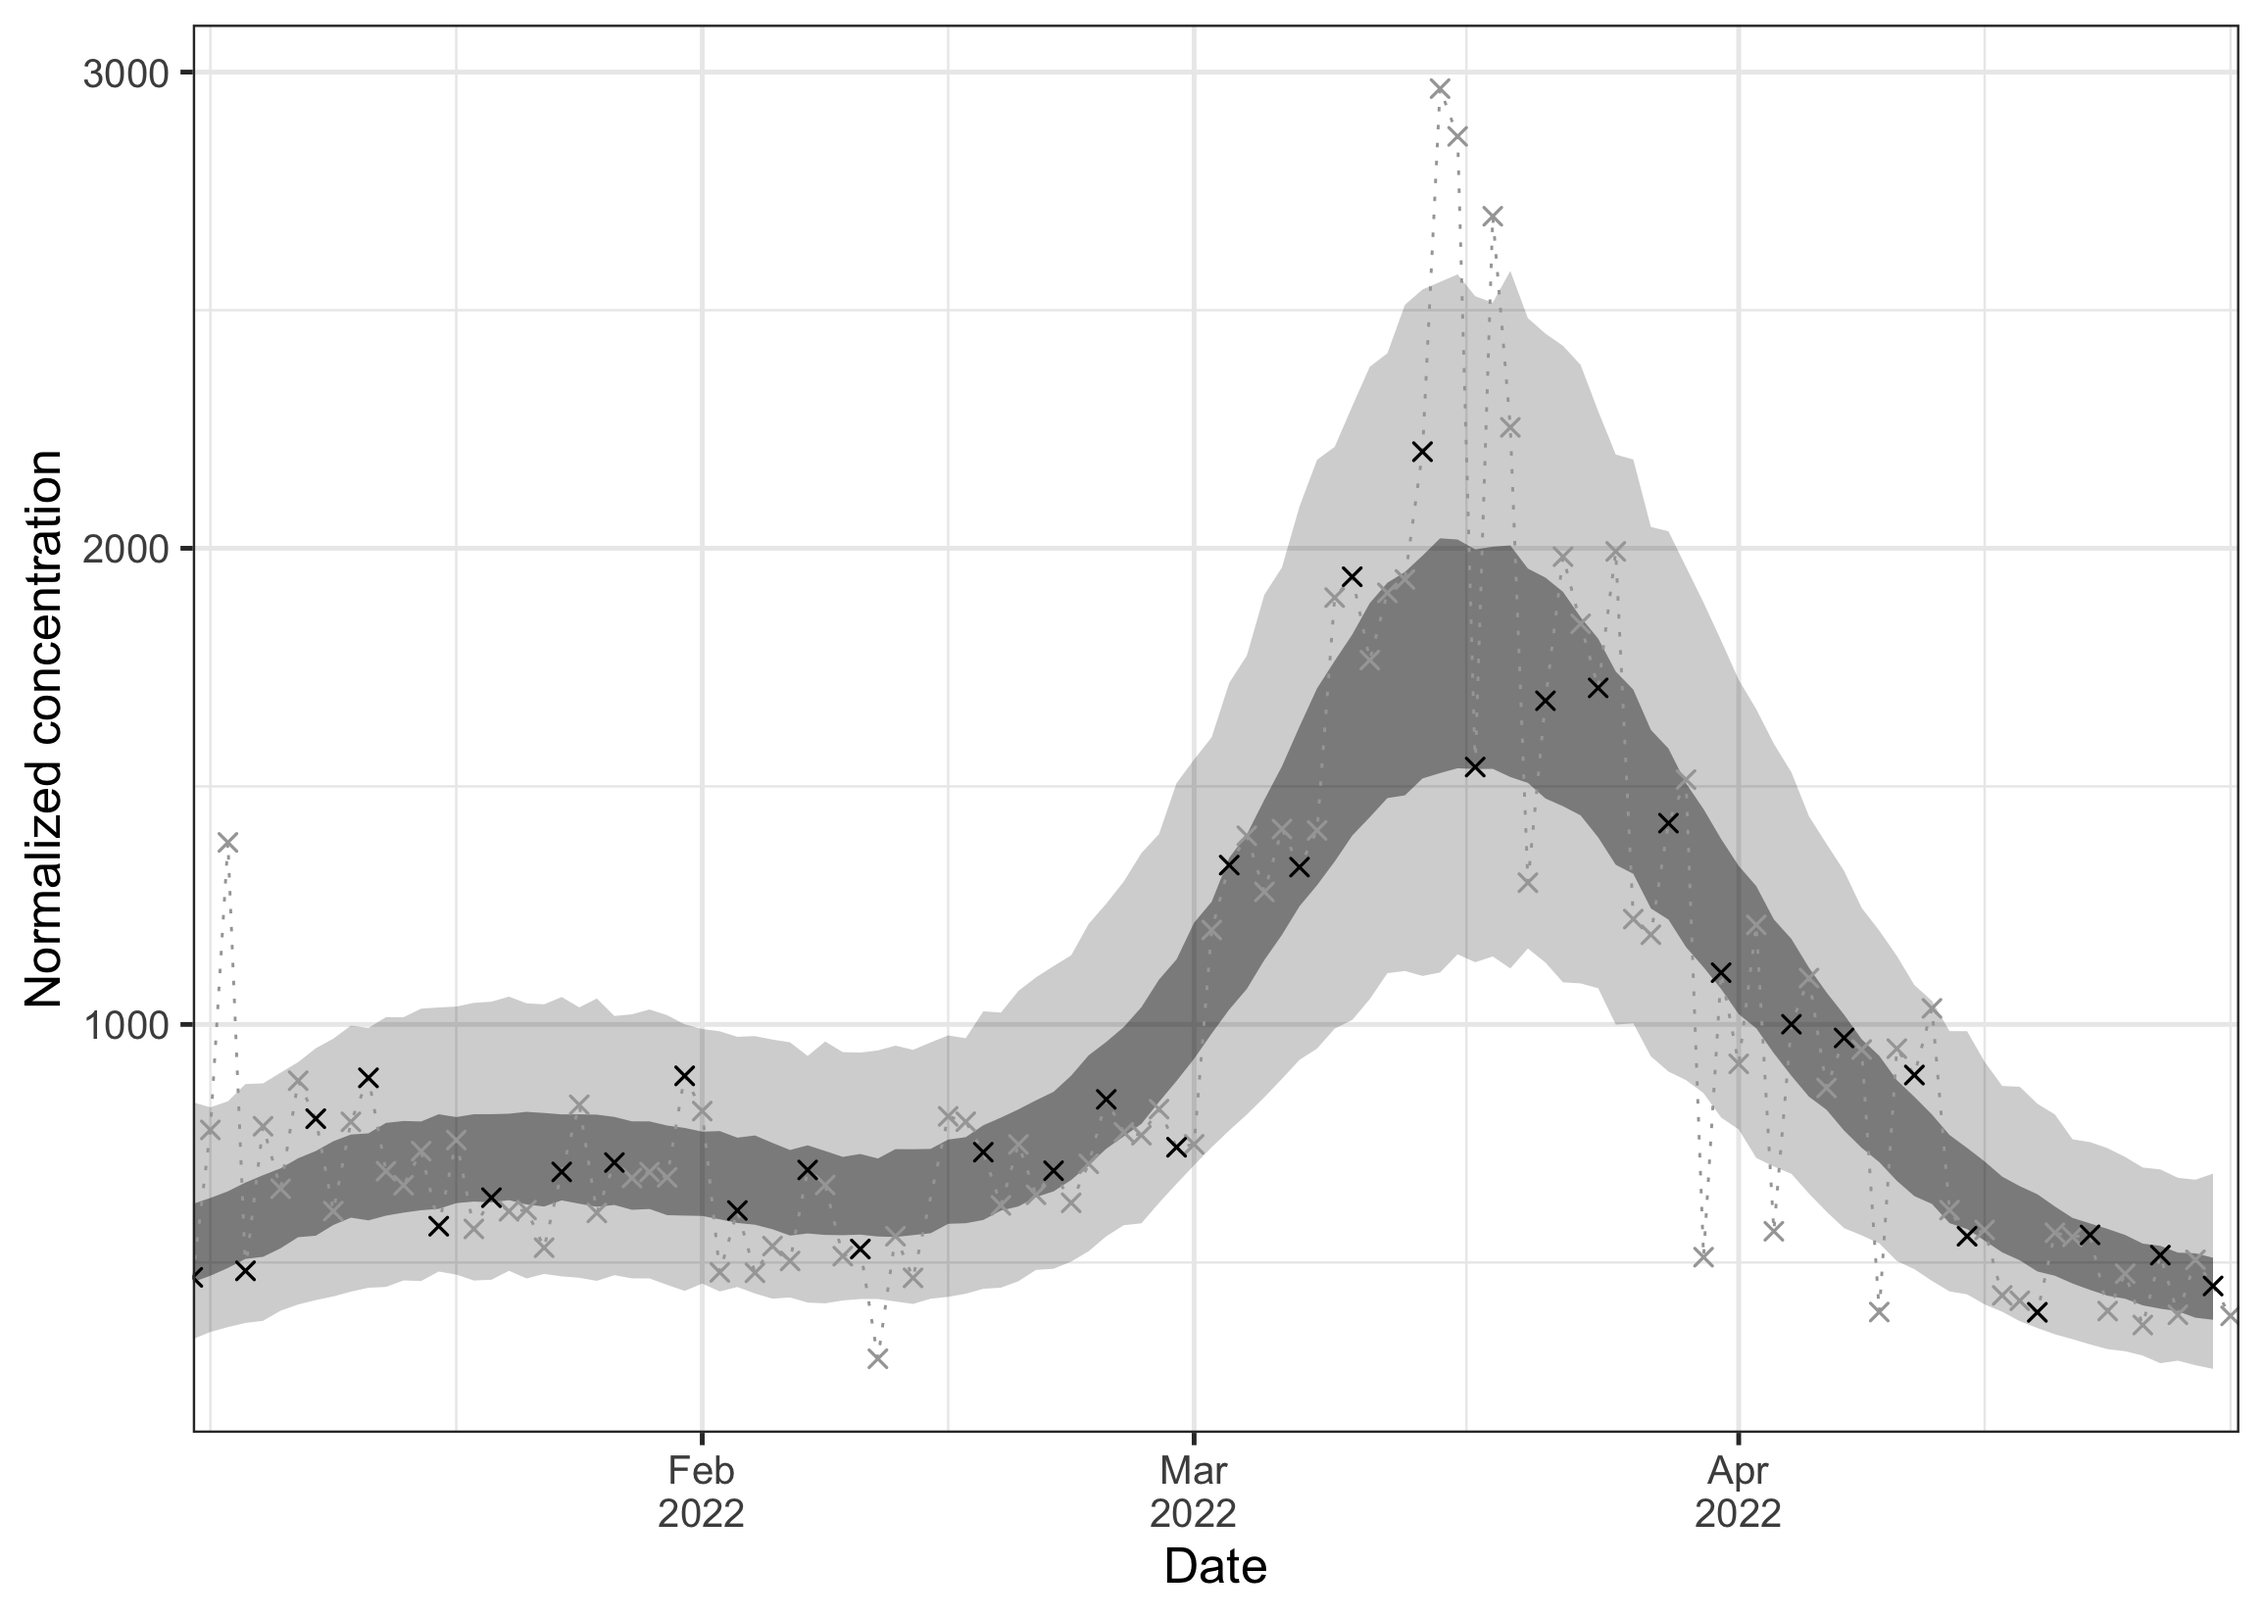
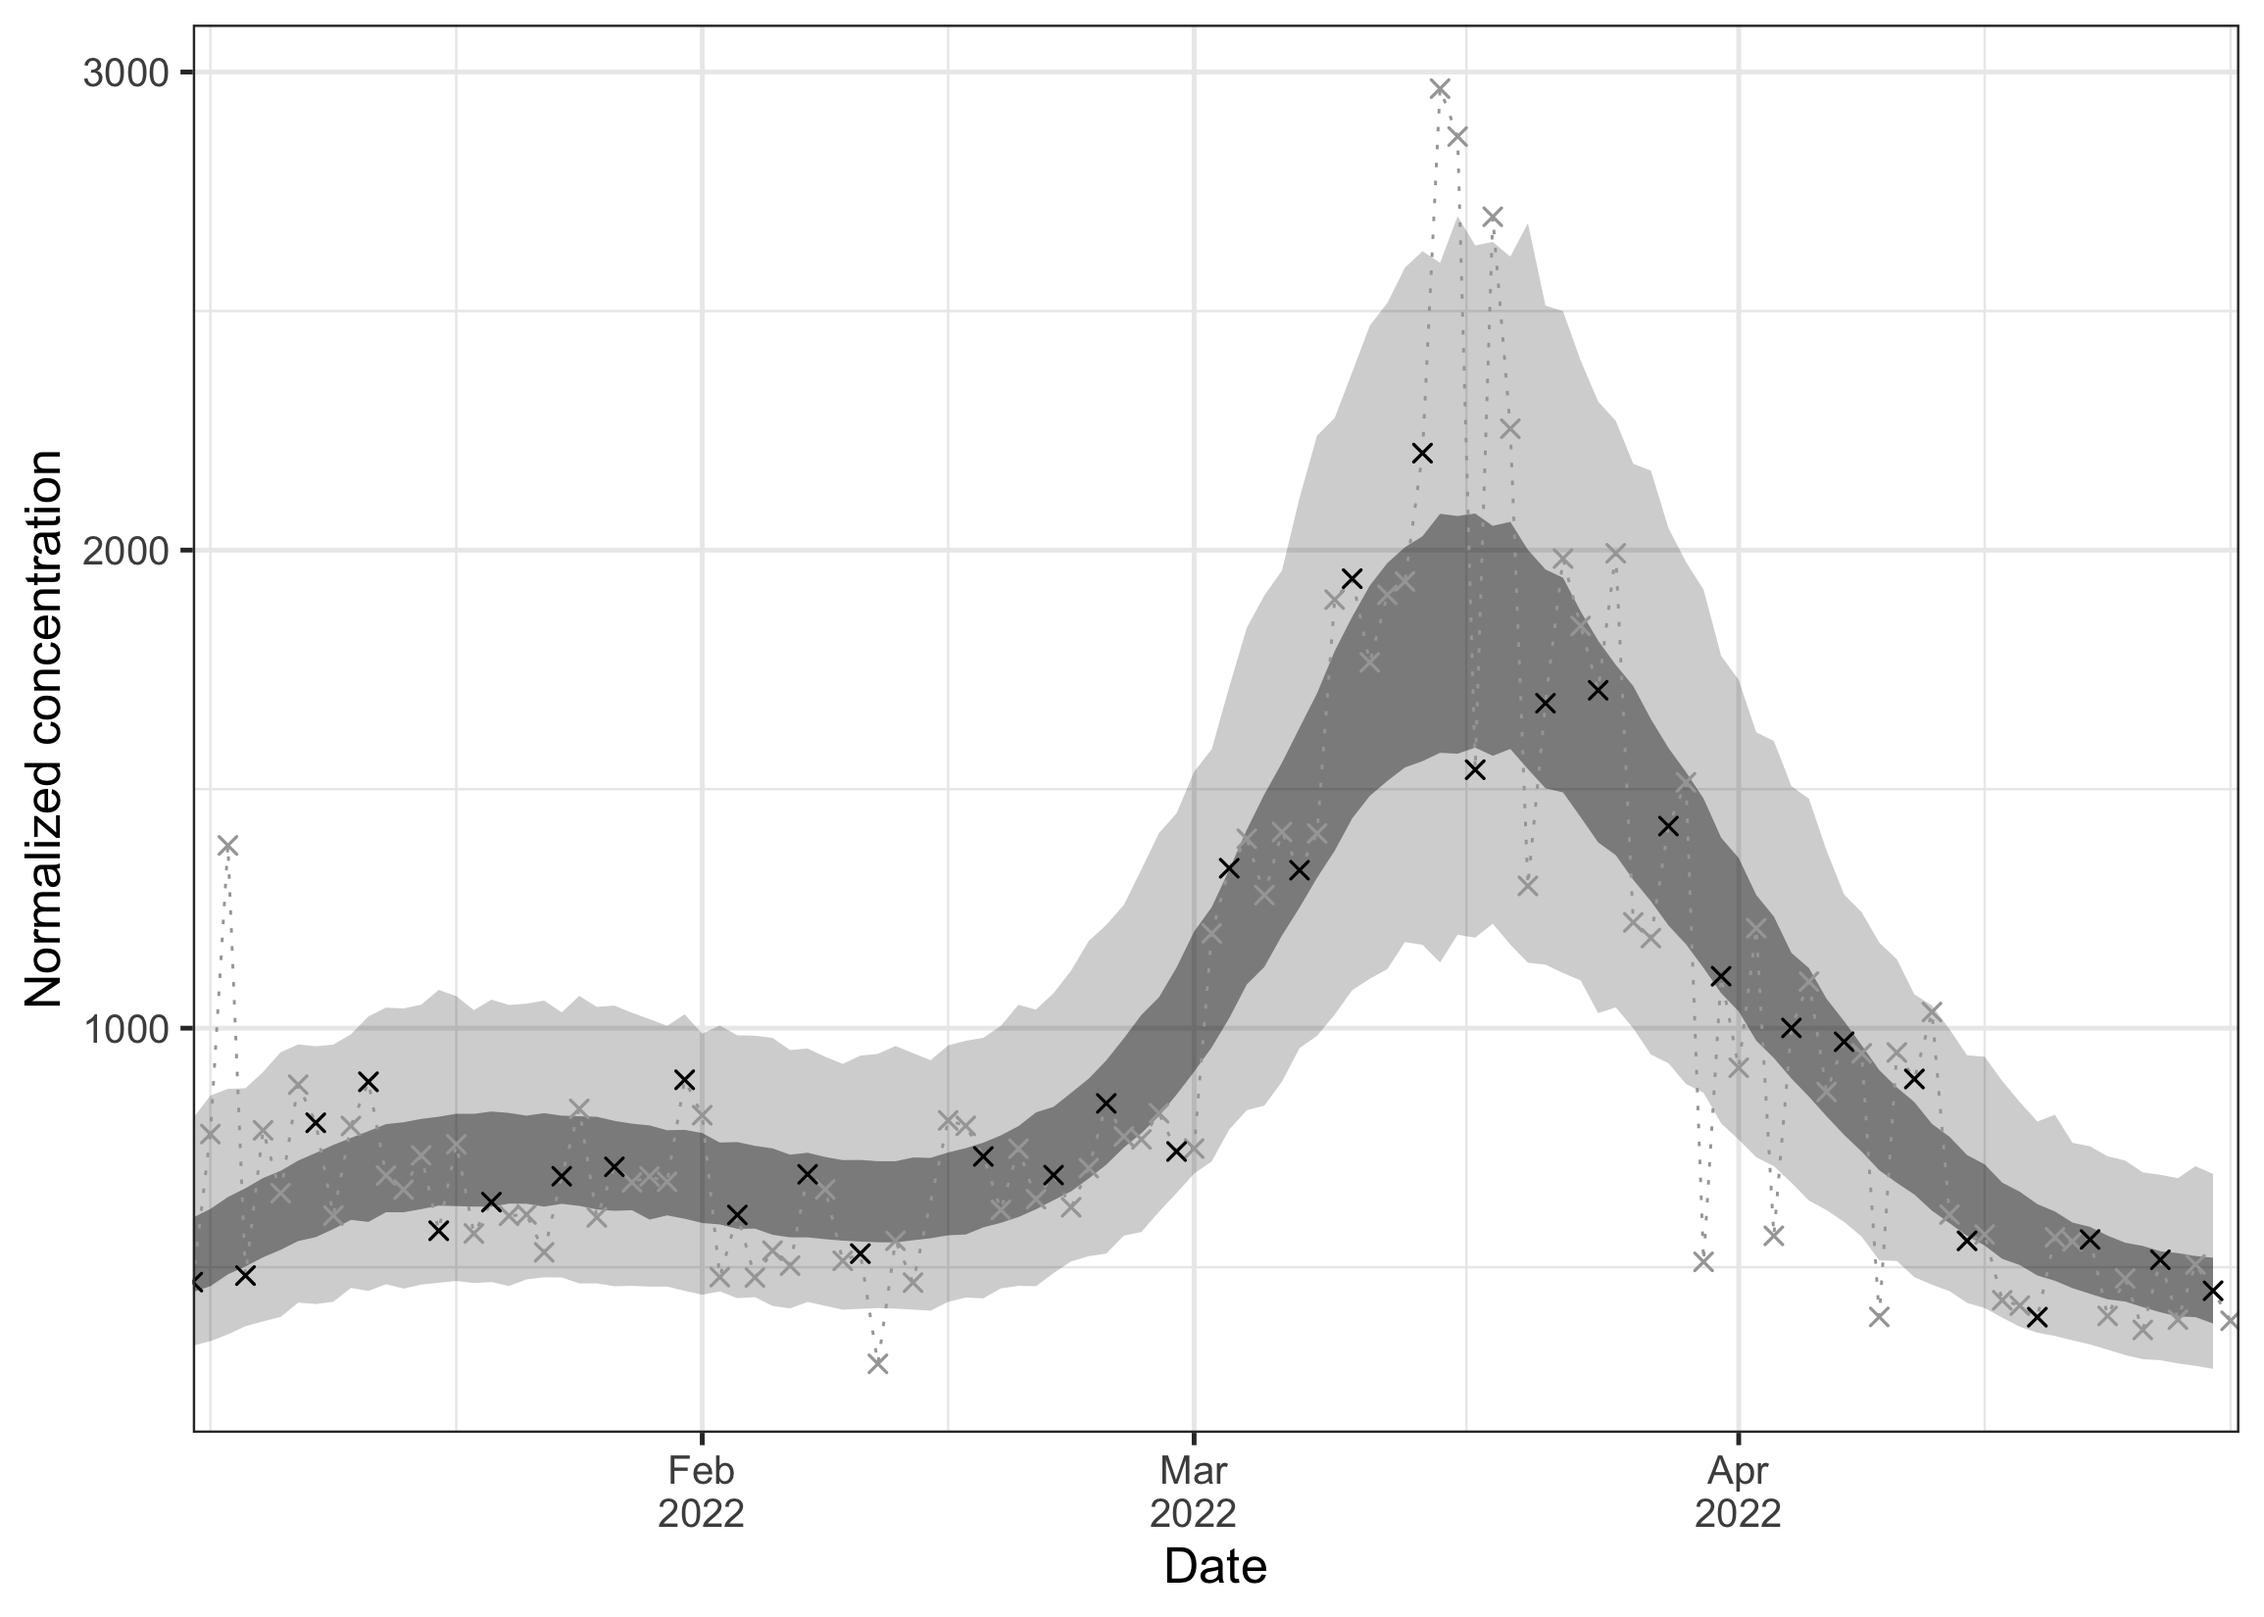
Update README and doc

diff --git a/README.md b/README.md
@@ -122,8 +122,7 @@ Technology) to the public domain (CC BY 4.0 license).
 ``` r
 data_zurich <- SARS_CoV_2_Zurich
 names(data_zurich)
-#> [1] "measurements" "flows"        "cases"       
-#> [4] "units"
+#> [1] "measurements" "flows"        "cases"        "units"
 ```
 
 - `measurements`: `EpiSewer` requires a time series of concentration
@@ -144,20 +143,19 @@ in Zurich. Some days have missing measurements, but this is no problem:
 
 ``` r
 data_zurich$measurements
-#> Index: <weekday>
-#>            date concentration   weekday
-#>          <Date>         <num>    <char>
-#>   1: 2022-01-01            NA  Saturday
-#>   2: 2022-01-02            NA    Sunday
-#>   3: 2022-01-03      455.7580    Monday
-#>   4: 2022-01-04      747.8792   Tuesday
-#>   5: 2022-01-05      573.7020 Wednesday
-#>  ---                                   
-#> 116: 2022-04-26      182.3664   Tuesday
-#> 117: 2022-04-27      379.2421 Wednesday
-#> 118: 2022-04-28      439.7427  Thursday
-#> 119: 2022-04-29      394.0033    Friday
-#> 120: 2022-04-30      293.1242  Saturday
+#>            date concentration
+#>          <Date>         <num>
+#>   1: 2022-01-01            NA
+#>   2: 2022-01-02            NA
+#>   3: 2022-01-03      455.7580
+#>   4: 2022-01-04      747.8792
+#>   5: 2022-01-05      573.7020
+#>  ---                         
+#> 116: 2022-04-26      182.3664
+#> 117: 2022-04-27      379.2421
+#> 118: 2022-04-28      439.7427
+#> 119: 2022-04-29      394.0033
+#> 120: 2022-04-30      293.1242
 ```
 
 To show the handling of missing data more clearly, we make our data
@@ -305,7 +303,7 @@ Hamiltonian MCMC sampling via stan, using 4 chains with 500 warmup and
 Stan regularly provides updates about the progress of the sampler. The
 overall runtime will depend on your hardware resources, the size of the
 data, the complexity of the model used, and how well the model actually
-fits the data. On a modern laptop the example below should take about 3
+fits the data. On a modern laptop the example below should take about 5
 minutes to run.
 
 ``` r
@@ -483,8 +481,7 @@ attributes:
 
 ``` r
 names(ww_result)
-#> [1] "job"         "stan_model"  "checksums"  
-#> [4] "summary"     "fitted"      "diagnostics"
+#> [1] "job"         "stan_model"  "checksums"   "summary"     "fitted"      "diagnostics"
 #> [7] "runtime"
 ```
 
@@ -495,11 +492,8 @@ meta-information, and the settings for the sampler. By calling
 
 ``` r
 names(ww_result$job)
-#>  [1] "job_name"      "jobarray_size"
-#>  [3] "data"          "model"        
-#>  [5] "init"          "fit_opts"     
-#>  [7] "results_opts"  "priors_text"  
-#>  [9] "metainfo"      "overwrite"
+#>  [1] "job_name"      "jobarray_size" "data"          "model"         "init"         
+#>  [6] "fit_opts"      "results_opts"  "priors_text"   "metainfo"      "overwrite"
 ```
 
 In particular, we can print a concise summary of the modeling details
@@ -513,7 +507,7 @@ ww_result$job$model
 #>  |- LOD_none
 #> 
 #> sampling
-#>  |- outliers_none
+#>  |- outliers_estimate
 #>  |- sample_effects_none
 #> 
 #> sewage
@@ -545,18 +539,11 @@ parameters from the model.
 
 ``` r
 names(ww_result$summary)
-#>  [1] "samples"                 
-#>  [2] "R"                       
-#>  [3] "R_diagnostics"           
-#>  [4] "expected_infections"     
-#>  [5] "infections"              
-#>  [6] "growth_rate"             
-#>  [7] "doubling_time"           
-#>  [8] "days_growing"            
-#>  [9] "expected_load"           
-#> [10] "expected_concentration"  
-#> [11] "concentration"           
-#> [12] "normalized_concentration"
+#>  [1] "samples"                  "R"                        "R_diagnostics"           
+#>  [4] "expected_infections"      "infections"               "growth_rate"             
+#>  [7] "doubling_time"            "days_growing"             "expected_load"           
+#> [10] "expected_concentration"   "concentration"            "normalized_concentration"
+#> [13] "outliers"
 ```
 
 For example, we can access the exact estimates for the reproduction
@@ -564,27 +551,13 @@ number.
 
 ``` r
 head(ww_result$summary$R, 5)
-#>          date     mean   median lower_0.95
-#>        <Date>    <num>    <num>      <num>
-#> 1: 2021-12-02 1.115172 1.110672  0.8615012
-#> 2: 2021-12-03 1.110969 1.108036  0.8628105
-#> 3: 2021-12-04 1.107426 1.104952  0.8605573
-#> 4: 2021-12-05 1.104382 1.102559  0.8669692
-#> 5: 2021-12-06 1.101656 1.100388  0.8699916
-#>    lower_0.5 upper_0.5 upper_0.95     type
-#>        <num>     <num>      <num>   <fctr>
-#> 1:  1.022565  1.201434   1.401401 estimate
-#> 2:  1.020731  1.197291   1.385792 estimate
-#> 3:  1.018906  1.192224   1.370607 estimate
-#> 4:  1.017617  1.187447   1.361395 estimate
-#> 5:  1.016991  1.180810   1.349066 estimate
-#>    seeding
-#>     <lgcl>
-#> 1:    TRUE
-#> 2:    TRUE
-#> 3:    TRUE
-#> 4:    TRUE
-#> 5:    TRUE
+#>          date     mean   median lower_0.95 lower_0.5 upper_0.5 upper_0.95     type seeding
+#>        <Date>    <num>    <num>      <num>     <num>     <num>      <num>   <fctr>  <lgcl>
+#> 1: 2021-12-03 1.033064 1.035552  0.6782225 0.9140223  1.148916   1.389457 estimate    TRUE
+#> 2: 2021-12-04 1.034980 1.036922  0.6919654 0.9195647  1.147927   1.376373 estimate    TRUE
+#> 3: 2021-12-05 1.037122 1.040870  0.7085076 0.9249555  1.145450   1.365958 estimate    TRUE
+#> 4: 2021-12-06 1.039499 1.043329  0.7231940 0.9314532  1.145225   1.353303 estimate    TRUE
+#> 5: 2021-12-07 1.042118 1.044984  0.7333114 0.9367882  1.144956   1.346645 estimate    TRUE
 ```
 
 The `fitted` attribute provides access to all details of the fitted stan
@@ -602,7 +575,7 @@ ww_result$fitted$diagnostic_summary()
 #> [1] 0 0 0 0
 #> 
 #> $ebfmi
-#> [1] 0.9483824 1.0604264 0.9608296 0.8695765
+#> [1] 0.8463008 0.9022849 0.9323316 0.8552178
 ```
 
 Finally, the `checksums` attribute gives us several checksums that
@@ -614,10 +587,10 @@ is not `NULL`), then the results should also be identical.
 ``` r
 ww_result$checksums
 #> $model
-#> [1] "df1728c80a97f9d14521b5a43bc98a12"
+#> [1] "c8484e1d5725559d91a98baaf86c86b6"
 #> 
 #> $input
-#> [1] "a2976b41049451d10be221f31e922835"
+#> [1] "1e89be907d2c1fa73d08bf9053bda7e1"
 #> 
 #> $fit_opts
 #> [1] "bfdedc2ea8d89b577ad57b86ac83e706"
@@ -626,7 +599,7 @@ ww_result$checksums
 #> [1] "e92f83d0ca5d22b3bb5849d62c5412ee"
 #> 
 #> $init
-#> [1] "03dd9d0e5e02a8b393c5e765de3f79fa"
+#> [1] "6986f5c37eaa6c9911bb9bbcdf52398c"
 ```
 
 ## Citing the package
